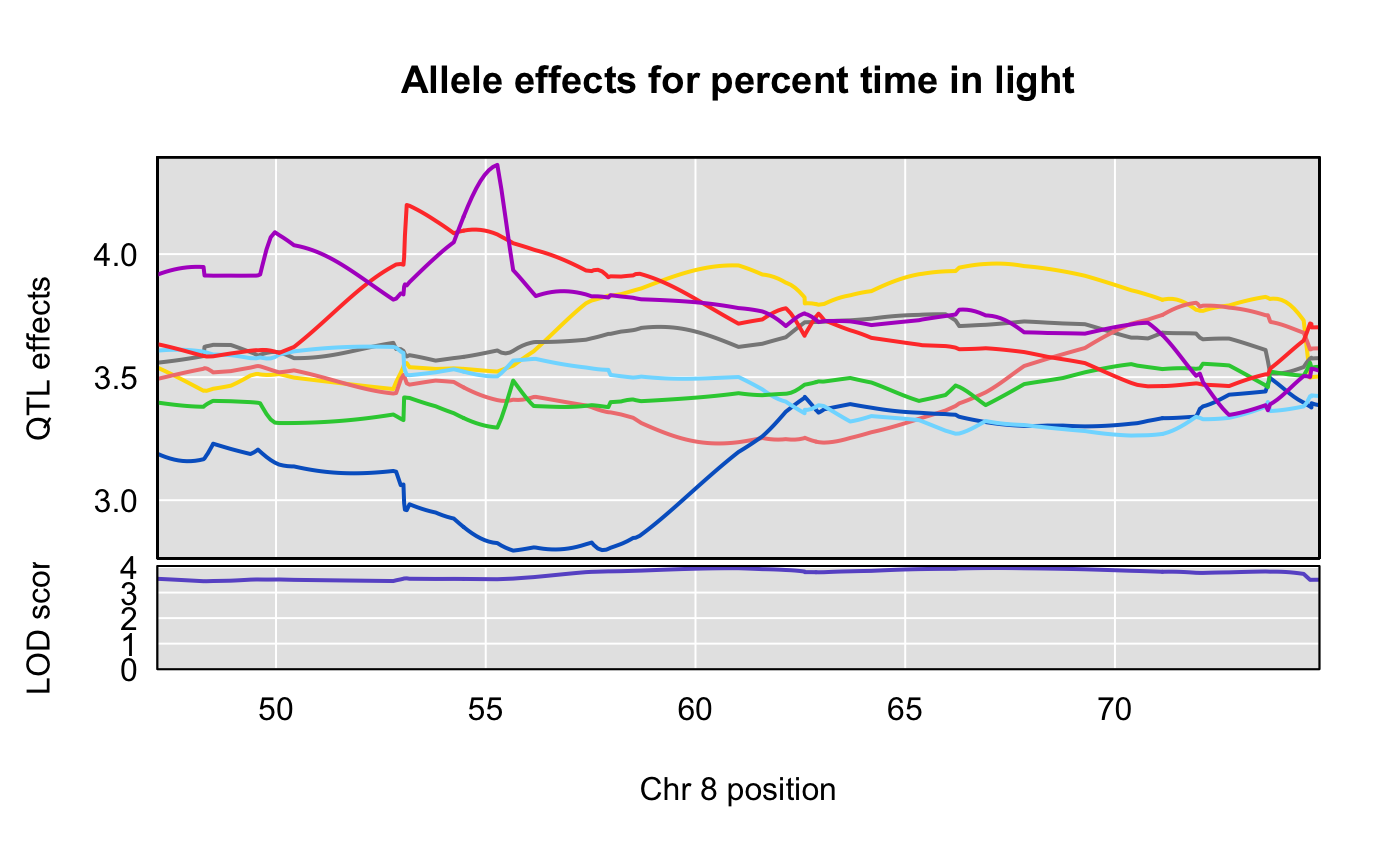
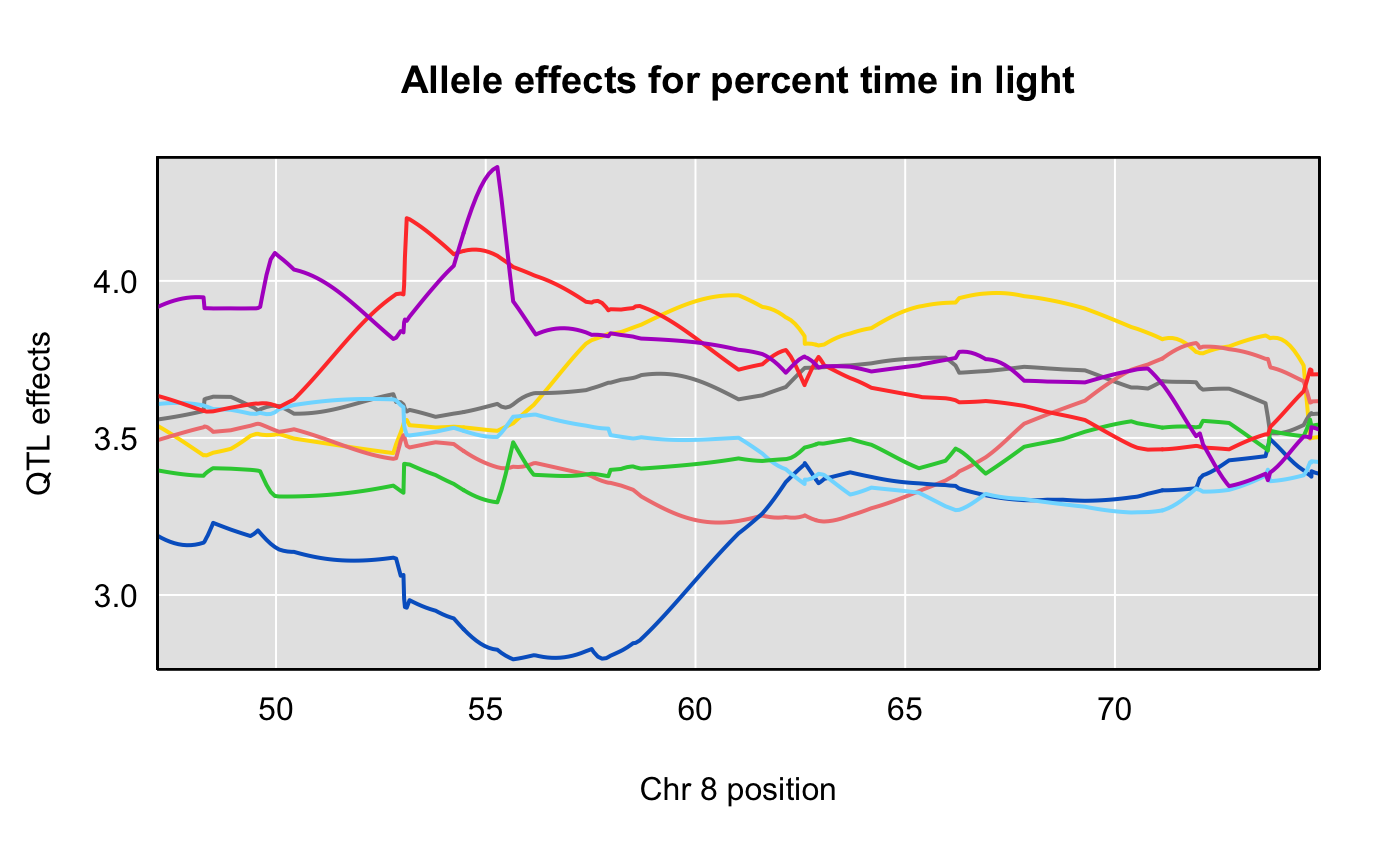
updated fit1_pvl

Changed region(s): [[0.0, 0.1873, 0.9521, 0.7803], [0.0, 0.6555, 0.0307, 0.7803], [0.0614, 0.5618, 0.1229, 0.5931]]

diff --git a/docs/articles/recla-analysis.html b/docs/articles/recla-analysis.html
@@ -86,7 +86,7 @@
       <h1>Recla Analysis</h1>
                         <h4 class="author">Frederick Boehm</h4>
             
-            <h4 class="date">2018-11-21</h4>
+            <h4 class="date">2018-11-22</h4>
       
       <small class="dont-index">Source: <a href="https://github.com/fboehm/qtl2pleio/blob/master/vignettes/recla-analysis.Rmd"><code>vignettes/recla-analysis.Rmd</code></a></small>
       <div class="hidden name"><code>recla-analysis.Rmd</code></div>
@@ -268,9 +268,9 @@
 <div class="sourceCode" id="cb26"><pre class="sourceCode r"><code class="sourceCode r"><a class="sourceLine" id="cb26-1" data-line-number="1"><span class="co"># subset scan1output objects</span></a>
 <a class="sourceLine" id="cb26-2" data-line-number="2">s1c_10s &lt;-<span class="st"> </span>s1c_<span class="dv">10</span>[<span class="dv">650</span><span class="op">:</span><span class="dv">999</span>, ] <span class="co"># 650:999 is the same as the interval for the two-dimensional scan.</span></a>
 <a class="sourceLine" id="cb26-3" data-line-number="3">s1c_22s &lt;-<span class="st"> </span>s1c_<span class="dv">22</span>[<span class="dv">650</span><span class="op">:</span><span class="dv">999</span>, ]</a></code></pre></div>
-<div class="sourceCode" id="cb27"><pre class="sourceCode r"><code class="sourceCode r"><a class="sourceLine" id="cb27-1" data-line-number="1"><span class="kw"><a href="https://www.rdocumentation.org/packages/qtl2/topics/plot_coef">plot_coefCC</a></span>(s1c_10s, <span class="dt">map =</span> pseudomap, <span class="dt">main =</span> <span class="st">"Allele effects for percent time in light"</span>, <span class="dt">scan1_output =</span> s1c_10s)</a></code></pre></div>
+<div class="sourceCode" id="cb27"><pre class="sourceCode r"><code class="sourceCode r"><a class="sourceLine" id="cb27-1" data-line-number="1"><span class="kw"><a href="https://www.rdocumentation.org/packages/qtl2/topics/plot_coef">plot_coefCC</a></span>(s1c_10s, <span class="dt">map =</span> pseudomap, <span class="dt">main =</span> <span class="st">"Allele effects for percent time in light"</span>)</a></code></pre></div>
 <p><img src="recla-analysis_files/figure-html/unnamed-chunk-15-1.png" width="700"></p>
-<div class="sourceCode" id="cb28"><pre class="sourceCode r"><code class="sourceCode r"><a class="sourceLine" id="cb28-1" data-line-number="1"><span class="kw"><a href="https://www.rdocumentation.org/packages/qtl2/topics/plot_coef">plot_coefCC</a></span>(s1c_22s, <span class="dt">map =</span> pseudomap, <span class="dt">main =</span> <span class="st">"Allele effects for hot plate latency"</span>, <span class="dt">scan1_output =</span> s1c_22s)</a></code></pre></div>
+<div class="sourceCode" id="cb28"><pre class="sourceCode r"><code class="sourceCode r"><a class="sourceLine" id="cb28-1" data-line-number="1"><span class="kw"><a href="https://www.rdocumentation.org/packages/qtl2/topics/plot_coef">plot_coefCC</a></span>(s1c_22s, <span class="dt">map =</span> pseudomap, <span class="dt">main =</span> <span class="st">"Allele effects for hot plate latency"</span>)</a></code></pre></div>
 <p><img src="recla-analysis_files/figure-html/unnamed-chunk-15-2.png" width="700"></p>
 </div>
 <div id="two-dimensional-scan-results-from-github" class="section level2">
@@ -341,76 +341,76 @@
 ##  collate  en_US.UTF-8                 
 ##  ctype    en_US.UTF-8                 
 ##  tz       America/Chicago             
-##  date     2018-11-21                  
+##  date     2018-11-22                  
 ## 
 ## ─ Packages ──────────────────────────────────────────────────────────────
-##  package     * version    date       lib source                         
-##  assertthat    0.2.0      2017-04-11 [1] CRAN (R 3.5.0)                 
-##  backports     1.1.2      2017-12-13 [1] CRAN (R 3.5.0)                 
-##  base64enc     0.1-3      2015-07-28 [1] CRAN (R 3.5.0)                 
-##  bindr         0.1.1      2018-03-13 [1] CRAN (R 3.5.0)                 
-##  bindrcpp    * 0.2.2      2018-03-29 [1] CRAN (R 3.5.0)                 
-##  bit           1.1-14     2018-05-29 [1] CRAN (R 3.5.0)                 
-##  bit64         0.9-7      2017-05-08 [1] CRAN (R 3.5.0)                 
-##  blob          1.1.1      2018-03-25 [1] CRAN (R 3.5.0)                 
-##  broman        0.68-2     2018-07-25 [1] CRAN (R 3.5.0)                 
-##  callr         3.0.0      2018-08-24 [1] CRAN (R 3.5.0)                 
-##  cli           1.0.1      2018-09-25 [1] CRAN (R 3.5.0)                 
-##  colorspace    1.3-2      2016-12-14 [1] CRAN (R 3.5.0)                 
-##  commonmark    1.6        2018-09-30 [1] CRAN (R 3.5.0)                 
-##  crayon        1.3.4      2017-09-16 [1] CRAN (R 3.5.0)                 
-##  data.table    1.11.8     2018-09-30 [1] CRAN (R 3.5.0)                 
-##  DBI           1.0.0      2018-05-02 [1] CRAN (R 3.5.0)                 
-##  desc          1.2.0      2018-05-01 [1] CRAN (R 3.5.0)                 
-##  devtools      2.0.1      2018-10-26 [1] CRAN (R 3.5.1)                 
-##  digest        0.6.18     2018-10-10 [1] CRAN (R 3.5.0)                 
-##  dplyr       * 0.7.8      2018-11-10 [1] CRAN (R 3.5.0)                 
-##  evaluate      0.12       2018-10-09 [1] CRAN (R 3.5.0)                 
-##  fs            1.2.6      2018-08-23 [1] CRAN (R 3.5.0)                 
-##  ggplot2     * 3.1.0      2018-10-25 [1] CRAN (R 3.5.0)                 
-##  glue          1.3.0      2018-07-17 [1] CRAN (R 3.5.0)                 
-##  gtable        0.2.0      2016-02-26 [1] CRAN (R 3.5.0)                 
-##  htmltools     0.3.6      2017-04-28 [1] CRAN (R 3.5.0)                 
-##  jsonlite      1.5        2017-06-01 [1] CRAN (R 3.5.0)                 
-##  knitr         1.20       2018-02-20 [1] CRAN (R 3.5.0)                 
-##  labeling      0.3        2014-08-23 [1] CRAN (R 3.5.0)                 
-##  lazyeval      0.2.1      2017-10-29 [1] CRAN (R 3.5.0)                 
-##  magrittr      1.5        2014-11-22 [1] CRAN (R 3.5.0)                 
-##  MASS          7.3-50     2018-04-30 [1] CRAN (R 3.5.1)                 
-##  memoise       1.1.0      2017-04-21 [1] CRAN (R 3.5.0)                 
-##  munsell       0.5.0      2018-06-12 [1] CRAN (R 3.5.0)                 
-##  pillar        1.3.0      2018-07-14 [1] CRAN (R 3.5.0)                 
-##  pkgbuild      1.0.2      2018-10-16 [1] CRAN (R 3.5.0)                 
-##  pkgconfig     2.0.2      2018-08-16 [1] CRAN (R 3.5.0)                 
-##  pkgdown       1.2.0.9000 2018-11-21 [1] Github (hadley/pkgdown@44460e6)
-##  pkgload       1.0.2      2018-10-29 [1] CRAN (R 3.5.0)                 
-##  plyr          1.8.4      2016-06-08 [1] CRAN (R 3.5.0)                 
-##  prettyunits   1.0.2      2015-07-13 [1] CRAN (R 3.5.0)                 
-##  processx      3.2.0      2018-08-16 [1] CRAN (R 3.5.0)                 
-##  ps            1.2.1      2018-11-06 [1] CRAN (R 3.5.0)                 
-##  purrr         0.2.5      2018-05-29 [1] CRAN (R 3.5.0)                 
-##  qtl2        * 0.17-9     2018-11-18 [1] Github (rqtl/qtl2@1c007a2)     
-##  qtl2pleio   * 0.1.2.9000 2018-11-21 [1] local                          
-##  R6            2.3.0      2018-10-04 [1] CRAN (R 3.5.0)                 
-##  Rcpp          1.0.0.1    2018-11-18 [1] Github (RcppCore/Rcpp@4f168e6) 
-##  remotes       2.0.2      2018-10-30 [1] CRAN (R 3.5.0)                 
-##  rlang         0.3.0.1    2018-10-25 [1] CRAN (R 3.5.0)                 
-##  rmarkdown     1.10       2018-06-11 [1] CRAN (R 3.5.0)                 
-##  roxygen2      6.1.1      2018-11-07 [1] CRAN (R 3.5.0)                 
-##  rprojroot     1.3-2      2018-01-03 [1] CRAN (R 3.5.0)                 
-##  RSQLite       2.1.1      2018-05-06 [1] CRAN (R 3.5.0)                 
-##  rstudioapi    0.8        2018-10-02 [1] CRAN (R 3.5.0)                 
-##  scales        1.0.0      2018-08-09 [1] CRAN (R 3.5.0)                 
-##  sessioninfo   1.1.1      2018-11-05 [1] CRAN (R 3.5.0)                 
-##  stringi       1.2.4      2018-07-20 [1] CRAN (R 3.5.0)                 
-##  stringr       1.3.1      2018-05-10 [1] CRAN (R 3.5.0)                 
-##  testthat      2.0.1      2018-10-13 [1] CRAN (R 3.5.0)                 
-##  tibble        1.4.2      2018-01-22 [1] CRAN (R 3.5.0)                 
-##  tidyselect    0.2.5      2018-10-11 [1] CRAN (R 3.5.0)                 
-##  usethis       1.4.0      2018-08-14 [1] CRAN (R 3.5.0)                 
-##  withr         2.1.2      2018-03-15 [1] CRAN (R 3.5.0)                 
-##  xml2          1.2.0      2018-01-24 [1] CRAN (R 3.5.0)                 
-##  yaml          2.2.0      2018-07-25 [1] CRAN (R 3.5.0)                 
+##  package     * version    date       lib source                           
+##  assertthat    0.2.0      2017-04-11 [1] CRAN (R 3.5.0)                   
+##  backports     1.1.2      2017-12-13 [1] CRAN (R 3.5.0)                   
+##  base64enc     0.1-3      2015-07-28 [1] CRAN (R 3.5.0)                   
+##  bindr         0.1.1      2018-03-13 [1] CRAN (R 3.5.0)                   
+##  bindrcpp    * 0.2.2      2018-03-29 [1] CRAN (R 3.5.0)                   
+##  bit           1.1-14     2018-05-29 [1] CRAN (R 3.5.0)                   
+##  bit64         0.9-7      2017-05-08 [1] CRAN (R 3.5.0)                   
+##  blob          1.1.1      2018-03-25 [1] CRAN (R 3.5.0)                   
+##  broman        0.68-2     2018-07-25 [1] CRAN (R 3.5.0)                   
+##  callr         3.0.0      2018-08-24 [1] CRAN (R 3.5.0)                   
+##  cli           1.0.1      2018-09-25 [1] CRAN (R 3.5.0)                   
+##  colorspace    1.3-2      2016-12-14 [1] CRAN (R 3.5.0)                   
+##  commonmark    1.6        2018-09-30 [1] CRAN (R 3.5.0)                   
+##  crayon        1.3.4      2017-09-16 [1] CRAN (R 3.5.0)                   
+##  data.table    1.11.8     2018-09-30 [1] CRAN (R 3.5.0)                   
+##  DBI           1.0.0      2018-05-02 [1] CRAN (R 3.5.0)                   
+##  desc          1.2.0      2018-05-01 [1] CRAN (R 3.5.0)                   
+##  devtools      2.0.1      2018-10-26 [1] CRAN (R 3.5.1)                   
+##  digest        0.6.18     2018-10-10 [1] CRAN (R 3.5.0)                   
+##  dplyr       * 0.7.8      2018-11-10 [1] CRAN (R 3.5.0)                   
+##  evaluate      0.12       2018-10-09 [1] CRAN (R 3.5.0)                   
+##  fs            1.2.6      2018-08-23 [1] CRAN (R 3.5.0)                   
+##  ggplot2     * 3.1.0      2018-10-25 [1] CRAN (R 3.5.0)                   
+##  glue          1.3.0      2018-07-17 [1] CRAN (R 3.5.0)                   
+##  gtable        0.2.0      2016-02-26 [1] CRAN (R 3.5.0)                   
+##  htmltools     0.3.6      2017-04-28 [1] CRAN (R 3.5.0)                   
+##  jsonlite      1.5        2017-06-01 [1] CRAN (R 3.5.0)                   
+##  knitr         1.20       2018-02-20 [1] CRAN (R 3.5.0)                   
+##  labeling      0.3        2014-08-23 [1] CRAN (R 3.5.0)                   
+##  lazyeval      0.2.1      2017-10-29 [1] CRAN (R 3.5.0)                   
+##  magrittr      1.5        2014-11-22 [1] CRAN (R 3.5.0)                   
+##  MASS          7.3-50     2018-04-30 [1] CRAN (R 3.5.1)                   
+##  memoise       1.1.0      2017-04-21 [1] CRAN (R 3.5.0)                   
+##  munsell       0.5.0      2018-06-12 [1] CRAN (R 3.5.0)                   
+##  pillar        1.3.0      2018-07-14 [1] CRAN (R 3.5.0)                   
+##  pkgbuild      1.0.2      2018-10-16 [1] CRAN (R 3.5.0)                   
+##  pkgconfig     2.0.2      2018-08-16 [1] CRAN (R 3.5.0)                   
+##  pkgdown       1.2.0.9000 2018-11-21 [1] Github (hadley/pkgdown@44460e6)  
+##  pkgload       1.0.2      2018-10-29 [1] CRAN (R 3.5.0)                   
+##  plyr          1.8.4      2016-06-08 [1] CRAN (R 3.5.0)                   
+##  prettyunits   1.0.2      2015-07-13 [1] CRAN (R 3.5.0)                   
+##  processx      3.2.0      2018-08-16 [1] CRAN (R 3.5.0)                   
+##  ps            1.2.1      2018-11-06 [1] CRAN (R 3.5.0)                   
+##  purrr         0.2.5      2018-05-29 [1] CRAN (R 3.5.0)                   
+##  qtl2        * 0.17-9     2018-11-18 [1] Github (rqtl/qtl2@1c007a2)       
+##  qtl2pleio   * 0.1.2.9000 2018-11-22 [1] Github (fboehm/qtl2pleio@d414fa2)
+##  R6            2.3.0      2018-10-04 [1] CRAN (R 3.5.0)                   
+##  Rcpp          1.0.0.1    2018-11-18 [1] Github (RcppCore/Rcpp@4f168e6)   
+##  remotes       2.0.2      2018-10-30 [1] CRAN (R 3.5.0)                   
+##  rlang         0.3.0.1    2018-10-25 [1] CRAN (R 3.5.0)                   
+##  rmarkdown     1.10       2018-06-11 [1] CRAN (R 3.5.0)                   
+##  roxygen2      6.1.1      2018-11-07 [1] CRAN (R 3.5.0)                   
+##  rprojroot     1.3-2      2018-01-03 [1] CRAN (R 3.5.0)                   
+##  RSQLite       2.1.1      2018-05-06 [1] CRAN (R 3.5.0)                   
+##  rstudioapi    0.8        2018-10-02 [1] CRAN (R 3.5.0)                   
+##  scales        1.0.0      2018-08-09 [1] CRAN (R 3.5.0)                   
+##  sessioninfo   1.1.1      2018-11-05 [1] CRAN (R 3.5.0)                   
+##  stringi       1.2.4      2018-07-20 [1] CRAN (R 3.5.0)                   
+##  stringr       1.3.1      2018-05-10 [1] CRAN (R 3.5.0)                   
+##  testthat      2.0.1      2018-10-13 [1] CRAN (R 3.5.0)                   
+##  tibble        1.4.2      2018-01-22 [1] CRAN (R 3.5.0)                   
+##  tidyselect    0.2.5      2018-10-11 [1] CRAN (R 3.5.0)                   
+##  usethis       1.4.0      2018-08-14 [1] CRAN (R 3.5.0)                   
+##  withr         2.1.2      2018-03-15 [1] CRAN (R 3.5.0)                   
+##  xml2          1.2.0      2018-01-24 [1] CRAN (R 3.5.0)                   
+##  yaml          2.2.0      2018-07-25 [1] CRAN (R 3.5.0)                   
 ## 
 ## [1] /Library/Frameworks/R.framework/Versions/3.5/Resources/library</code></pre>
 </div>

diff --git a/docs/articles/testing-pleiotropy-vs-separate-qtl.html b/docs/articles/testing-pleiotropy-vs-separate-qtl.html
@@ -86,7 +86,7 @@
       <h1>Testing pleiotropy v separate QTL in multiparental populations</h1>
                         <h4 class="author">Frederick Boehm</h4>
             
-            <h4 class="date">2018-11-21</h4>
+            <h4 class="date">2018-11-22</h4>
       
       <small class="dont-index">Source: <a href="https://github.com/fboehm/qtl2pleio/blob/master/vignettes/testing-pleiotropy-vs-separate-qtl.Rmd"><code>vignettes/testing-pleiotropy-vs-separate-qtl.Rmd</code></a></small>
       <div class="hidden name"><code>testing-pleiotropy-vs-separate-qtl.Rmd</code></div>
@@ -301,7 +301,7 @@
 <a class="sourceLine" id="cb18-28" data-line-number="28"><span class="co">#&gt; starting covariance matrices estimation with data from 261 subjects.</span></a>
 <a class="sourceLine" id="cb18-29" data-line-number="29"><span class="co">#&gt; covariance matrices estimation completed.</span></a>
 <a class="sourceLine" id="cb18-30" data-line-number="30"><span class="co">#&gt;    user  system elapsed </span></a>
-<a class="sourceLine" id="cb18-31" data-line-number="31"><span class="co">#&gt;  51.110   0.311  51.511</span></a></code></pre></div>
+<a class="sourceLine" id="cb18-31" data-line-number="31"><span class="co">#&gt;  52.109   0.339  52.523</span></a></code></pre></div>
 <p>The argument <code>nboot_per_job</code> indicates the number of bootstrap samples that will be created and analyzed. Here, we set <code>nboot_per_job = 10</code>, so we expect to see returned a numeric vector of length 10, where each entry is a LRT statistic value from a distinct bootstrap sample.</p>
 <p>Finally, we determine a bootstrap p-value in the usual method. We treat the bootstrap samples’ test statistics as an empirical distribution of the test statistic under the null hypothesis of pleiotropy. Thus, to get a p-value, we want to ask “What is the probability, under the null hypothesis, of observing a test statistic value that is at least as extreme as that which we observed?”</p>
 <div class="sourceCode" id="cb19"><pre class="sourceCode r"><code class="sourceCode r"><a class="sourceLine" id="cb19-1" data-line-number="1">(pvalue &lt;-<span class="st"> </span><span class="kw"><a href="https://www.rdocumentation.org/packages/base/topics/mean">mean</a></span>(b_out <span class="op">&gt;=</span><span class="st"> </span>lrt))</a>

diff --git a/docs/index.html b/docs/index.html
@@ -301,7 +301,7 @@
 <a class="sourceLine" id="cb17-28" data-line-number="28"><span class="co">#&gt; starting covariance matrices estimation with data from 261 subjects.</span></a>
 <a class="sourceLine" id="cb17-29" data-line-number="29"><span class="co">#&gt; covariance matrices estimation completed.</span></a>
 <a class="sourceLine" id="cb17-30" data-line-number="30"><span class="co">#&gt;    user  system elapsed </span></a>
-<a class="sourceLine" id="cb17-31" data-line-number="31"><span class="co">#&gt;  53.071   0.475  53.694</span></a></code></pre></div>
+<a class="sourceLine" id="cb17-31" data-line-number="31"><span class="co">#&gt;  53.380   0.533  54.063</span></a></code></pre></div>
 <p>The argument <code>nboot_per_job</code> indicates the number of bootstrap samples that will be created and analyzed. Here, we set <code>nboot_per_job = 10</code>, so we expect to see returned a numeric vector of length 10, where each entry is a LRT statistic value from a distinct bootstrap sample.</p>
 <p>Finally, we determine a bootstrap p-value in the usual method. We treat the bootstrap samples’ test statistics as an empirical distribution of the test statistic under the null hypothesis of pleiotropy. Thus, to get a p-value, we want to ask “What is the probability, under the null hypothesis, of observing a test statistic value that is at least as extreme as that which we observed?”</p>
 <div class="sourceCode" id="cb18"><pre class="sourceCode r"><code class="sourceCode r"><a class="sourceLine" id="cb18-1" data-line-number="1">(pvalue &lt;-<span class="st"> </span><span class="kw"><a href="https://www.rdocumentation.org/packages/base/topics/mean">mean</a></span>(b_out <span class="op">&gt;=</span><span class="st"> </span>lrt))</a>
